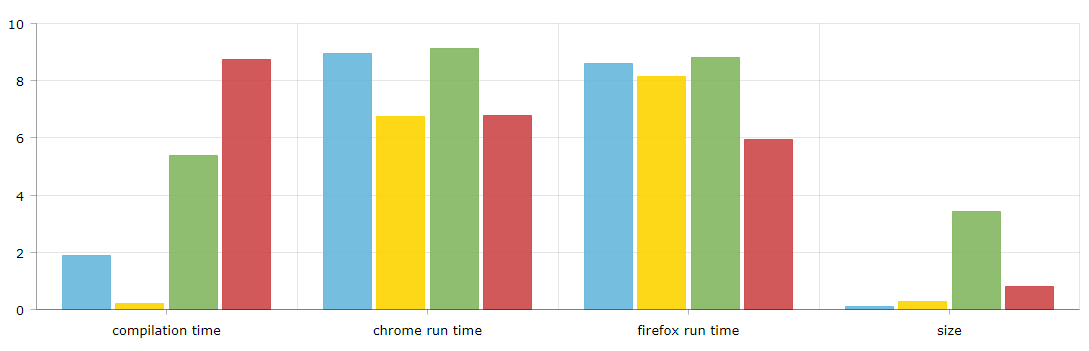
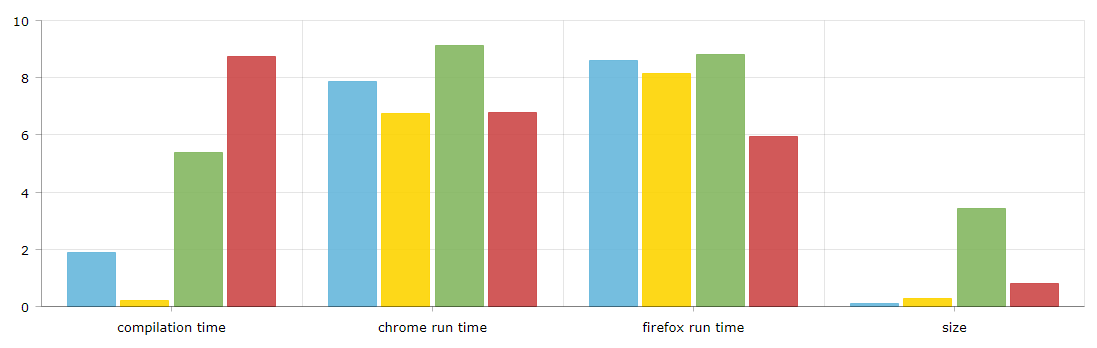
update ts, dart, haxe

diff --git a/README.md b/README.md
@@ -27,7 +27,7 @@ On Chrome 70 and Firefox 63, i5-5300U CPU @ 2.30GHz, 200 passes
 | lang  | compilation time | chrome run time | firefox run time | size | minified size |
 | ------------- | ------------- |------------- |------------- |------------- |------------- |
 | Haxe  | 0.22s  | 6.76s  | 8.15s | 27KB*  | 13KB  |
-| TypeScript | 1.89s  | 8.94s  | 8.6s | 12KB  | 7KB |
+| TypeScript | 1.89s  | 7.86s  | 8.6s | 12KB  | 7KB |
 | Dart  | 5.38s  | 9.137s  | 8.8s |98KB  | 89KB |
 | Wasm  | 8.74s  | 6.8s  | 5.93s | 82KB**  | 69KB |
 
@@ -35,7 +35,7 @@ On Chrome 70 and Firefox 63, i5-5300U CPU @ 2.30GHz, 200 passes
 - ![#76bee0](https://placehold.it/15/76bee0/000000?text=+) `TypeScript 3.1.6`
 - ![#fdd71a](https://placehold.it/15/fdd71a/000000?text=+) `Haxe 4.0.0.preview5`
 - ![#91be71](https://placehold.it/15/91be71/000000?text=+) `Dart 2.1`
-- ![#D28FB5](https://placehold.it/15/D28FB5/000000?text=+) `Wasm 1.0 with emsdk 1.38.4`
+- ![#d15a5c](https://placehold.it/15/D28FB5/000000?text=+) `Wasm 1.0 with emsdk 1.38.4`
 
 On Chrome 66 and Firefox 59, i5-5300U CPU @ 2.30GHz, 200 passes
 
